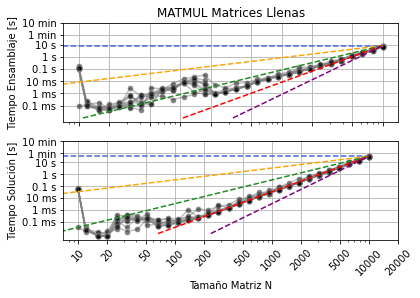
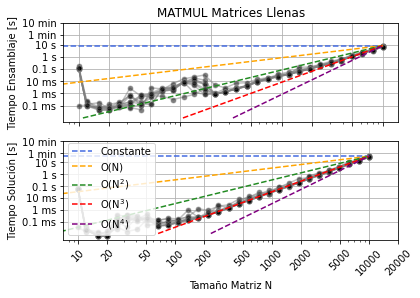
READY

Changed region(s): [[0.1548, 0.453, 0.3714, 0.8154]]

diff --git a/Entrega 6/E6 Plots.py b/Entrega 6/E6 Plots.py
@@ -302,8 +302,8 @@ plt.xlabel("Tamaño Matriz N")
 plt.yticks(dt0, dt_label)
 plt.grid(True)
 plt.xticks(N0_l, N0_l, rotation=45)
-plt.savefig("SOLVE Matrices Llenas", bbox_inches = 'tight')
 plt.legend()
+plt.savefig("SOLVE Matrices Llenas", bbox_inches = 'tight')
 plt.show()
 
 
@@ -341,8 +341,8 @@ plt.xlabel("Tamaño Matriz N")
 plt.yticks(dt0, dt_label)
 plt.grid(True)
 plt.xticks(N0_d, N0_d, rotation=45)
-plt.savefig("SOLVE Matrices Dispersas", bbox_inches = 'tight')
 plt.legend()
+plt.savefig("SOLVE Matrices Dispersas", bbox_inches = 'tight')
 plt.show()
 
 
@@ -382,8 +382,8 @@ plt.xlabel("Tamaño Matriz N")
 plt.yticks(dt0, dt_label)
 plt.grid(True)
 plt.xticks(N0_l, N0_l, rotation=45)
-plt.savefig("INV Matrices Llenas", bbox_inches = 'tight')
 plt.legend()
+plt.savefig("INV Matrices Llenas", bbox_inches = 'tight')
 plt.show()
 
 
@@ -421,6 +421,6 @@ plt.xlabel("Tamaño Matriz N")
 plt.yticks(dt0, dt_label)
 plt.grid(True)
 plt.xticks(N0_l, N0_l, rotation=45)
-plt.savefig("INV Matrices Dispersas", bbox_inches = 'tight')
 plt.legend()
+plt.savefig("INV Matrices Dispersas", bbox_inches = 'tight')
 plt.show()

diff --git a/Entrega 5/E5 plots.py b/Entrega 5/E5 plots.py
@@ -176,8 +176,8 @@ plt.xlabel("Tamaño Matriz N")
 plt.yticks(dt0, dt_label)
 plt.grid(True)
 plt.xticks(N0_l, N0_l, rotation=45)
-plt.savefig("MATMUL Matrices Llenas", bbox_inches = 'tight')
 plt.legend()
+plt.savefig("MATMUL Matrices Llenas", bbox_inches = 'tight')
 plt.show()
 
 
@@ -215,6 +215,6 @@ plt.xlabel("Tamaño Matriz N")
 plt.yticks(dt0, dt_label)
 plt.grid(True)
 plt.xticks(N0_d, N0_d, rotation=45)
-plt.savefig("MATMUL Matrices Dispersas", bbox_inches = 'tight')
 plt.legend()
+plt.savefig("MATMUL Matrices Dispersas", bbox_inches = 'tight')
 plt.show()

diff --git a/README.md b/README.md
@@ -157,7 +157,7 @@ A diferencia de las entregas anteriores, no se traficó el uso de memoria. Sin e
 
 # P0E5-E6: Matrices Dispersas y Complejidad Computacional
 
-## 1. Complejidad algorítmica de MATMUL
+## 1. Complejidad Algorítmica de MATMUL
 
 Se realizó un archivo py con el cual se ejecuta la operación MATMUL entre dos matrices laplacianas llenas y dispersas (tipo CSR), con un tipo de dato double. Al correr el código, se observó que, el uso de matrices dispersas es más eficiente en cuanto al tiempo de ensamblaje y de solución de la operación, debido a que solo guarda los números de las matrices que son diferentes de cero, es decir, trabaja con menos datos (los más importantes) y se ahorra sumas de 0 que no tienen efecto. Esto se nota en los gráficos de tiempo vs N que se muestran a continuación, en donde el tamaño máximo de matriz usado para las llenas es de 10.000, mientras que para las dispersas es de 1.000.000.
 
@@ -195,7 +195,7 @@ En cuanto al tiempo de ensamblaje y el tiempo de solución MATMUL de las matrice
 
 
 
-## 2. Complejidad algorítmica de SOLVE
+## 2. Complejidad Algorítmica de SOLVE
 
 Se realizó un archivo py con el cual se ejecuta la operación SOLVE del sistema de ecuaciones Ax=b, donde la matriz A es laplaciana (se usaron matrices llenas y matrices dispersas del tipo CSR) y el vector b es un vector de unos, ambos con un tipo de dato double. Al correr el código, se observó que, el uso de matrices dispersas es más eficiente en cuanto al tiempo de ensamblaje y de solución de la operación, debido a que solo guarda los números de las matrices que son diferentes de cero, es decir, trabaja con menos datos (los más importantes) y se ahorra sumas de 0 que no tienen efecto. Esto se nota en los gráficos de tiempo vs N que se muestran a continuación, en donde el tamaño máximo de matriz usado para las llenas es de 10.000, mientras que para las dispersas es de 1.000.000.
 
@@ -234,7 +234,7 @@ Con esto, se puede ver cómo afecta el tamaño de las matrices al comportamiento
 
 Analizando la estabilidad de las corridas, es decir, cuánto varía una con la otra, las del tiempo de ensamblaje de matrices llenas, y los tiempos de solución de las llenas y dispersas coinciden todas menos una corrida, que se desvía alrededor de N=200. Mientras que las corridas del tiempo de solución de las matrices llenas son todas prácticamente iguales.
 
-## 3. Complejidad algorítmica de INV
+## 3. Complejidad Algorítmica de INV
 
 Se realizó un archivo py con el cual se ejecuta la operación INV en donde se invierte una matriz A laplaciana (se usaron matrices llenas y matrices dispersas del tipo CSC) con un tipo de dato double. Al correr el código, se observó que, el uso de matrices dispersas es más eficiente en cuanto al tiempo de ensamblaje y de solución de la operación, al igual que MATMUL y SOLVE. Sin embargo, para INV, el tamaño máximo de las matrices fue de 10.000 para matrices llenas y dispersas, dado que la reducción en el tiempo en el caso de las dispersas no fue notable, y se demoraba más de dos minutos por corrida con matrices de mayor tamaño, por lo que no se llegó a matrices de N=1.000.000 como MATMUL y SOLVE.
 
